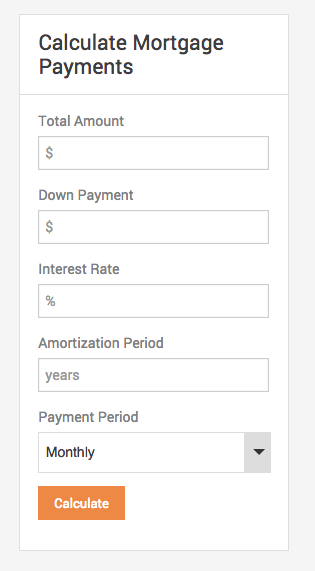
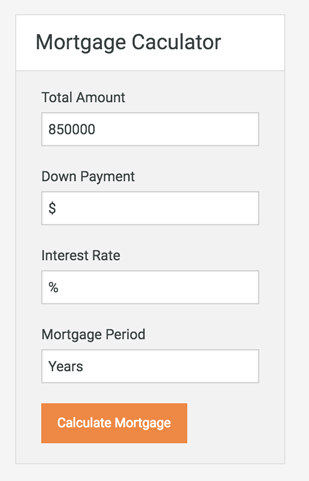
replaced old mortgage calculator plugin with new one

diff --git a/index.html b/index.html
@@ -230,7 +230,7 @@
                     <article class="hentry" id="inspiry-introduction">
                         <div class="entry-content">
                             <h2 class="entry-title">Introduction</h2>
-                            <p>This documentation is last updated on 30th March 2016.</p>
+                            <p>This documentation is last updated on 1st July 2016.</p>
 
                             <p>Thanks for purchasing Real Homes WordPress Theme. If you have any question that is beyond the scope of this documentation, Feel free to ask that on <a href="http://support.inspirythemes.com/" target="_blank">our support website</a>. You can visit <a target="_blank" href="http://support.inspirythemes.com/knowledgebase/how-to-get-themeforest-item-purchase-code/">this knowledge base article</a> to learn about how to get item purchase code from themeforest.net to sign-up on our support site.</p>
 
@@ -1519,27 +1519,21 @@
                     <article class="hentry" id="inspiry-mortgage-widget">
                         <div class="entry-content">
                             <h2 class="entry-title">How to set up Mortgage Calculator Widget</h2>
-                            <p>We will use <a target="_blank" href="https://wordpress.org/plugins/responsive-mortgage-calculator/">Responsive Mortgage Calculator</a> plugin.</p>
+                            <p>We will use <a target="_blank" href="https://wordpress.org/plugins/mortgage-calculator/">Mortgage Calculator</a> plugin.</p>
                             <ol>
                                 <li>
-                                    Install the <a target="_blank" href="https://wordpress.org/plugins/responsive-mortgage-calculator/">Responsive Mortgage Calculator</a> plugin. As guided in screen shot below.
-                                    <br/>
-                                    <img class="light-border" src="assets/realhomes/widgets/mort-1.png" alt=""/>
+                                    Install and activate the <a target="_blank" href="https://wordpress.org/plugins/mortgage-calculator/">Mortgage Calculator</a> plugin.
                                 </li>
                                 <li>
                                     After installing and activating the plugin.
+                                    Go to <strong>Settings &gt; Mortgage Calculator</strong> and configure currency settings.
                                     <br/>
-                                    Go to <strong>Settings &gt; Resp Mortgage Calculator</strong> and look for <strong>Layout and Styling</strong> section and select theme's default styles as pointed in screen shot below.
-                                    <br/>
-                                    <img class="light-border" src="assets/realhomes/widgets/mort-4.png" alt=""/>
-                                    <br/>
-                                    You can configure other settings from this page.
+                                    <img class="light-border" src="assets/realhomes/widgets/mort-1.png" alt=""/>
                                     <br/>
                                 </li>
                                 <li>
                                     After configuring the plugin's settings.
-                                    <br/>
-                                    Go to <strong>Appearance &gt; Widgets</strong> and look for <strong>Responsive Mortgage Calculator</strong> widget abd Use that on <strong>Property Sidebar</strong> widget area. Provide it a title and save the widget settings.
+                                    Go to <strong>Appearance &gt; Widgets</strong> and look for <strong>Mortgage Calculator</strong> widget and use that on <strong>Property Sidebar</strong> widget area. Provide it a title and save the widget settings.
                                     <br/>
                                     <img class="light-border" src="assets/realhomes/widgets/mort-2.png" alt=""/>
                                 </li>
